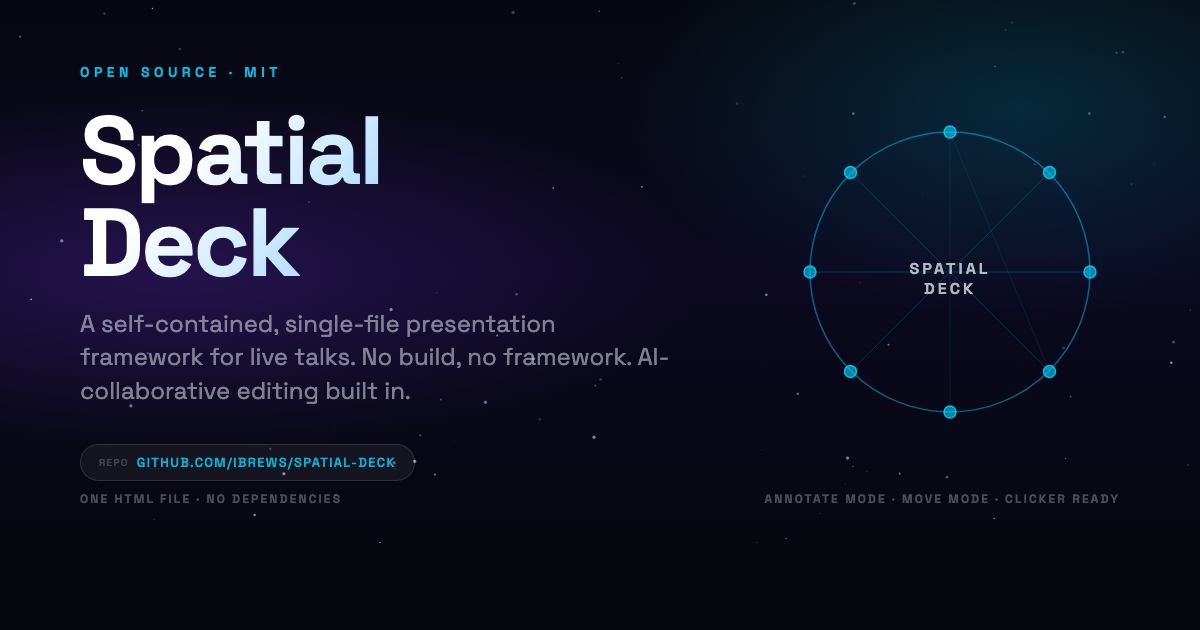
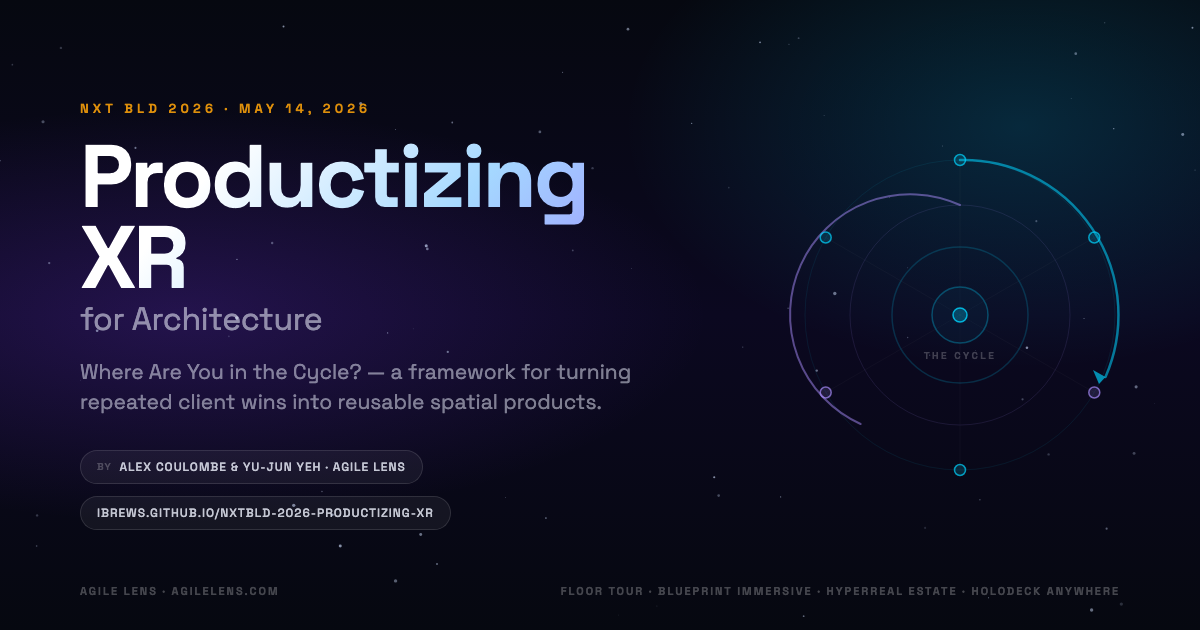
feat(social): 1200x630 social card + OpenGraph meta tags
- social.html: cycle-orbital graphic (echoes the pattern-cycle slide), Space Grotesk, spatial-deck visual language
- social.png: headless Chrome render at exact 1200x630
- index.html: updated og:title/description/image, og:url/type, twitter:card meta tags

diff --git a/social.html b/social.html
@@ -2,71 +2,29 @@
 <html lang="en">
 <head>
 <meta charset="UTF-8">
-<title>Spatial Deck — Social Card</title>
+<title>NXT BLD 2026 — Productizing XR for Architecture — Social Card</title>
 <link rel="preconnect" href="https://fonts.googleapis.com">
 <link rel="preconnect" href="https://fonts.gstatic.com" crossorigin>
 <link href="https://fonts.googleapis.com/css2?family=Space+Grotesk:wght@300;400;500;600;700&display=swap" rel="stylesheet">
 <style>
 *,*::before,*::after{box-sizing:border-box;margin:0;padding:0}
-:root{
-  --bg:#060810;--teal:#00d4ff;--purple:#a78bfa;--amber:#f59e0b;
-  --text:#f0f4ff;--dim:rgba(240,244,255,.5);
-  --font:'Space Grotesk',system-ui,sans-serif;
-}
+:root{--bg:#060810;--teal:#00d4ff;--purple:#a78bfa;--amber:#f59e0b;--text:#f0f4ff;--dim:rgba(240,244,255,.5);--font:'Space Grotesk',system-ui,sans-serif}
 html,body{width:1200px;height:630px;overflow:hidden;background:var(--bg);color:var(--text);font-family:var(--font)}
-
-/* Background — same spatial-deck visual language */
 .bg{position:absolute;inset:0;overflow:hidden}
-.bg-gradient{position:absolute;inset:0;
-  background:radial-gradient(ellipse 80% 60% at 15% 50%,rgba(124,58,237,.22) 0%,transparent 55%),
-             radial-gradient(ellipse 60% 70% at 85% 20%,rgba(0,212,255,.16) 0%,transparent 55%),
-             linear-gradient(180deg,#060810 0%,#0b0820 50%,#060810 100%);
-}
+.bg-gradient{position:absolute;inset:0;background:radial-gradient(ellipse 80% 60% at 15% 50%,rgba(124,58,237,.22) 0%,transparent 55%),radial-gradient(ellipse 60% 70% at 85% 20%,rgba(0,212,255,.16) 0%,transparent 55%),linear-gradient(180deg,#060810 0%,#0b0820 50%,#060810 100%)}
 canvas{position:absolute;inset:0}
-
-/* Constellation graphic on the right */
-.constellation{position:absolute;top:50%;right:80px;transform:translateY(-50%);width:340px;height:340px}
-.constellation svg{width:100%;height:100%}
-.cnode{fill:rgba(0,212,255,.6);stroke:rgba(0,212,255,.85);stroke-width:1.5}
-.cring{fill:none;stroke:rgba(0,212,255,.45);stroke-width:1.5}
-.cline{stroke:rgba(0,212,255,.18);stroke-width:.6}
-
-/* Content */
-.content{position:absolute;top:50%;left:80px;transform:translateY(-50%);max-width:680px;z-index:10}
-.tag{
-  font-size:14px;font-weight:600;letter-spacing:.32em;text-transform:uppercase;
-  color:var(--teal);opacity:.9;margin-bottom:24px;
-}
-.title{
-  font-size:96px;font-weight:700;line-height:.96;letter-spacing:-.03em;
-  background:linear-gradient(130deg,#fff 20%,#a5d8ff 55%,#9b8cff 90%);
-  -webkit-background-clip:text;-webkit-text-fill-color:transparent;background-clip:text;
-  margin-bottom:18px;
-}
-.tagline{
-  font-size:24px;font-weight:400;color:var(--dim);line-height:1.4;
-  max-width:600px;margin-bottom:36px;
-}
-.meta{
-  display:flex;align-items:center;gap:14px;
-  font-size:13px;font-weight:500;letter-spacing:.1em;text-transform:uppercase;
-  color:rgba(255,255,255,.45);
-}
-.meta .pill{
-  display:inline-flex;align-items:center;gap:8px;
-  background:rgba(255,255,255,.05);border:1px solid rgba(255,255,255,.12);
-  border-radius:30px;padding:9px 18px;
-}
-.meta .pill .lbl{opacity:.45;font-size:10px}
-.meta .url{color:var(--teal);opacity:.85}
-
-/* Footer brand mark */
-.footer{
-  position:absolute;bottom:36px;left:80px;right:80px;
-  display:flex;justify-content:space-between;align-items:center;
-  font-size:12px;font-weight:600;letter-spacing:.18em;text-transform:uppercase;
-  color:rgba(255,255,255,.28);
-}
+.cycle{position:absolute;top:50%;right:60px;transform:translateY(-50%);width:360px;height:360px}
+.cycle svg{width:100%;height:100%}
+.content{position:absolute;top:50%;left:80px;transform:translateY(-50%);max-width:660px;z-index:10}
+.tag{font-size:13px;font-weight:600;letter-spacing:.32em;text-transform:uppercase;color:var(--amber);opacity:.9;margin-bottom:20px}
+.title{font-size:88px;font-weight:700;line-height:.92;letter-spacing:-.035em;background:linear-gradient(130deg,#fff 20%,#a5d8ff 55%,#9b8cff 90%);-webkit-background-clip:text;-webkit-text-fill-color:transparent;background-clip:text;margin-bottom:4px}
+.subtitle{font-size:32px;font-weight:400;line-height:1;letter-spacing:-.01em;color:rgba(240,244,255,.55);margin-bottom:22px}
+.tagline{font-size:21px;font-weight:400;color:var(--dim);line-height:1.45;max-width:580px;margin-bottom:32px}
+.meta{display:flex;align-items:center;gap:12px;flex-wrap:wrap}
+.pill{display:inline-flex;align-items:center;gap:8px;background:rgba(255,255,255,.05);border:1px solid rgba(255,255,255,.12);border-radius:30px;padding:8px 16px;font-size:12px;font-weight:500;letter-spacing:.08em;text-transform:uppercase;color:rgba(255,255,255,.5)}
+.pill .lbl{opacity:.45;font-size:10px}
+.pill .val{color:rgba(240,244,255,.8)}
+.footer{position:absolute;bottom:32px;left:80px;right:80px;display:flex;justify-content:space-between;align-items:center;font-size:11px;font-weight:600;letter-spacing:.18em;text-transform:uppercase;color:rgba(255,255,255,.25)}
 </style>
 </head>
 <body>
@@ -75,62 +33,50 @@ canvas{position:absolute;inset:0}
   <canvas id="stars"></canvas>
 </div>
 
-<!-- Constellation graphic -->
-<div class="constellation">
-  <svg viewBox="0 0 340 340">
-    <!-- ring -->
-    <circle class="cring" cx="170" cy="170" r="140"/>
-    <!-- 8 connecting lines -->
-    <line class="cline" x1="170" y1="30" x2="269.5" y2="269.5"/>
-    <line class="cline" x1="269.5" y1="70.5" x2="70.5" y2="269.5"/>
-    <line class="cline" x1="310" y1="170" x2="30" y2="170"/>
-    <line class="cline" x1="269.5" y1="269.5" x2="70.5" y2="70.5"/>
-    <line class="cline" x1="170" y1="310" x2="170" y2="30"/>
-    <line class="cline" x1="70.5" y1="269.5" x2="269.5" y2="70.5"/>
-    <line class="cline" x1="30" y1="170" x2="310" y2="170"/>
-    <line class="cline" x1="70.5" y1="70.5" x2="269.5" y2="269.5"/>
-    <!-- 8 nodes -->
-    <circle class="cnode" cx="170" cy="30" r="6"/>
-    <circle class="cnode" cx="269.5" cy="70.5" r="6"/>
-    <circle class="cnode" cx="310" cy="170" r="6"/>
-    <circle class="cnode" cx="269.5" cy="269.5" r="6"/>
-    <circle class="cnode" cx="170" cy="310" r="6"/>
-    <circle class="cnode" cx="70.5" cy="269.5" r="6"/>
-    <circle class="cnode" cx="30" cy="170" r="6"/>
-    <circle class="cnode" cx="70.5" cy="70.5" r="6"/>
-    <!-- center brand -->
-    <text x="170" y="168" text-anchor="middle" dominant-baseline="middle" fill="rgba(255,255,255,.7)" font-family="Space Grotesk,sans-serif" font-size="16" font-weight="600" letter-spacing="3">SPATIAL</text>
-    <text x="170" y="188" text-anchor="middle" dominant-baseline="middle" fill="rgba(255,255,255,.7)" font-family="Space Grotesk,sans-serif" font-size="16" font-weight="600" letter-spacing="3">DECK</text>
+<div class="cycle">
+  <svg viewBox="0 0 360 360">
+    <circle fill="none" stroke="rgba(0,212,255,.08)" stroke-width="1" cx="180" cy="180" r="155"/>
+    <circle fill="none" stroke="rgba(167,139,250,.12)" stroke-width="1" cx="180" cy="180" r="110"/>
+    <circle fill="none" stroke="rgba(0,212,255,.18)" stroke-width="1.5" cx="180" cy="180" r="68"/>
+    <path d="M 180 25 A 155 155 0 0 1 325.5 242" fill="none" stroke="rgba(0,212,255,.55)" stroke-width="2.5" stroke-linecap="round"/>
+    <path d="M 180 70 A 110 110 0 0 0 80.6 289" fill="none" stroke="rgba(167,139,250,.5)" stroke-width="2" stroke-linecap="round"/>
+    <circle cx="180" cy="25" r="5.5" fill="rgba(0,212,255,.15)" stroke="rgba(0,212,255,.7)" stroke-width="1.5"/>
+    <circle cx="314.3" cy="102.5" r="5.5" fill="rgba(0,212,255,.15)" stroke="rgba(0,212,255,.7)" stroke-width="1.5"/>
+    <circle cx="314.3" cy="257.5" r="5.5" fill="rgba(167,139,250,.15)" stroke="rgba(167,139,250,.7)" stroke-width="1.5"/>
+    <circle cx="180" cy="335" r="5.5" fill="rgba(0,212,255,.15)" stroke="rgba(0,212,255,.7)" stroke-width="1.5"/>
+    <circle cx="45.7" cy="257.5" r="5.5" fill="rgba(167,139,250,.15)" stroke="rgba(167,139,250,.7)" stroke-width="1.5"/>
+    <circle cx="45.7" cy="102.5" r="5.5" fill="rgba(0,212,255,.15)" stroke="rgba(0,212,255,.7)" stroke-width="1.5"/>
+    <line x1="180" y1="25" x2="180" y2="335" stroke="rgba(255,255,255,.04)" stroke-width=".8"/>
+    <line x1="45.7" y1="102.5" x2="314.3" y2="257.5" stroke="rgba(255,255,255,.04)" stroke-width=".8"/>
+    <line x1="314.3" y1="102.5" x2="45.7" y2="257.5" stroke="rgba(255,255,255,.04)" stroke-width=".8"/>
+    <polygon points="325.5,242 313,235 319,249" fill="rgba(0,212,255,.65)"/>
+    <circle cx="180" cy="180" r="28" fill="rgba(0,212,255,.04)" stroke="rgba(0,212,255,.3)" stroke-width="1.5"/>
+    <circle cx="180" cy="180" r="7" fill="rgba(0,212,255,.25)" stroke="rgba(0,212,255,.8)" stroke-width="1.5"/>
+    <text x="180" y="224" text-anchor="middle" fill="rgba(255,255,255,.22)" font-family="Space Grotesk,sans-serif" font-size="10" font-weight="600" letter-spacing="2.5">THE CYCLE</text>
   </svg>
 </div>
 
 <div class="content">
-  <div class="tag">Open Source · MIT</div>
-  <h1 class="title">Spatial<br>Deck</h1>
-  <p class="tagline">A self-contained, single-file presentation framework for live talks. No build, no framework. AI-collaborative editing built in.</p>
+  <div class="tag">NXT BLD 2026 &middot; May 14, 2026</div>
+  <h1 class="title">Productizing<br>XR</h1>
+  <p class="subtitle">for Architecture</p>
+  <p class="tagline">Where Are You in the Cycle? — a framework for turning repeated client wins into reusable spatial products.</p>
   <div class="meta">
-    <div class="pill"><span class="lbl">Repo</span><span class="url">github.com/ibrews/spatial-deck</span></div>
+    <div class="pill"><span class="lbl">By</span><span class="val">Alex Coulombe &amp; Yu-Jun Yeh &middot; Agile Lens</span></div>
+    <div class="pill"><span class="val">ibrews.github.io/nxtbld-2026-productizing-xr</span></div>
   </div>
 </div>
 
 <div class="footer">
-  <span>One HTML File · No Dependencies</span>
-  <span>Annotate Mode · Move Mode · Clicker Ready</span>
+  <span>Agile Lens &middot; agilelens.com</span>
+  <span>Floor Tour &middot; Blueprint Immersive &middot; Hyperreal Estate &middot; Holodeck Anywhere</span>
 </div>
 
 <script>
-// Stars background
 const cv=document.getElementById('stars'),sc=cv.getContext('2d');
 cv.width=1200;cv.height=630;
-const stars=Array.from({length:90},()=>({
-  x:Math.random()*1200,y:Math.random()*630,
-  r:Math.random()*1.4+.3,o:Math.random()*.5+.15
-}));
-sc.clearRect(0,0,1200,630);
-stars.forEach(s=>{
-  sc.beginPath();sc.arc(s.x,s.y,s.r,0,Math.PI*2);
-  sc.fillStyle=`rgba(210,225,255,${s.o})`;sc.fill();
-});
+const stars=Array.from({length:90},()=>({x:Math.random()*1200,y:Math.random()*630,r:Math.random()*1.4+.3,o:Math.random()*.5+.15}));
+stars.forEach(s=>{sc.beginPath();sc.arc(s.x,s.y,s.r,0,Math.PI*2);sc.fillStyle=`rgba(210,225,255,${s.o})`;sc.fill();});
 </script>
 </body>
 </html>

diff --git a/index.html b/index.html
@@ -4,10 +4,16 @@
 <meta charset="UTF-8">
 <meta name="viewport" content="width=device-width, initial-scale=1.0">
 <title>Productizing XR for Architecture — NXT BLD 2026</title>
-<meta name="description" content="A framework for spatial decisions — before you pick a headset or a studio. Built with Spatial Deck.">
-<meta property="og:title" content="Is XR Right For Your Project?">
-<meta property="og:description" content="3 lessons. 6 case studies. A framework for spatial decisions.">
-<meta property="og:image" content="https://ibrews.github.io/spatial-deck/social.png">
+<meta name="description" content="Where Are You in the Cycle? — a framework for turning repeated client wins into reusable spatial products. NXT BLD 2026 · Agile Lens.">
+<meta property="og:title" content="Productizing XR for Architecture — NXT BLD 2026">
+<meta property="og:description" content="Where Are You in the Cycle? A framework for turning repeated client wins into reusable spatial products. Alex Coulombe & Yu-Jun Yeh · Agile Lens.">
+<meta property="og:image" content="https://ibrews.github.io/nxtbld-2026-productizing-xr/social.png">
+<meta property="og:url" content="https://ibrews.github.io/nxtbld-2026-productizing-xr/">
+<meta property="og:type" content="website">
+<meta name="twitter:card" content="summary_large_image">
+<meta name="twitter:title" content="Productizing XR for Architecture — NXT BLD 2026">
+<meta name="twitter:description" content="Where Are You in the Cycle? A framework for turning repeated client wins into reusable spatial products. Alex Coulombe & Yu-Jun Yeh · Agile Lens.">
+<meta name="twitter:image" content="https://ibrews.github.io/nxtbld-2026-productizing-xr/social.png">
 <link rel="preconnect" href="https://fonts.googleapis.com">
 <link rel="preconnect" href="https://fonts.gstatic.com" crossorigin>
 <link href="https://fonts.googleapis.com/css2?family=Space+Grotesk:wght@300;400;500;600;700&family=Inter:wght@300;400;500;600;700&family=Outfit:wght@300;400;500;600;700&family=JetBrains+Mono:wght@300;400;500;600;700&family=Playfair+Display:wght@400;500;600;700&display=swap" rel="stylesheet">
